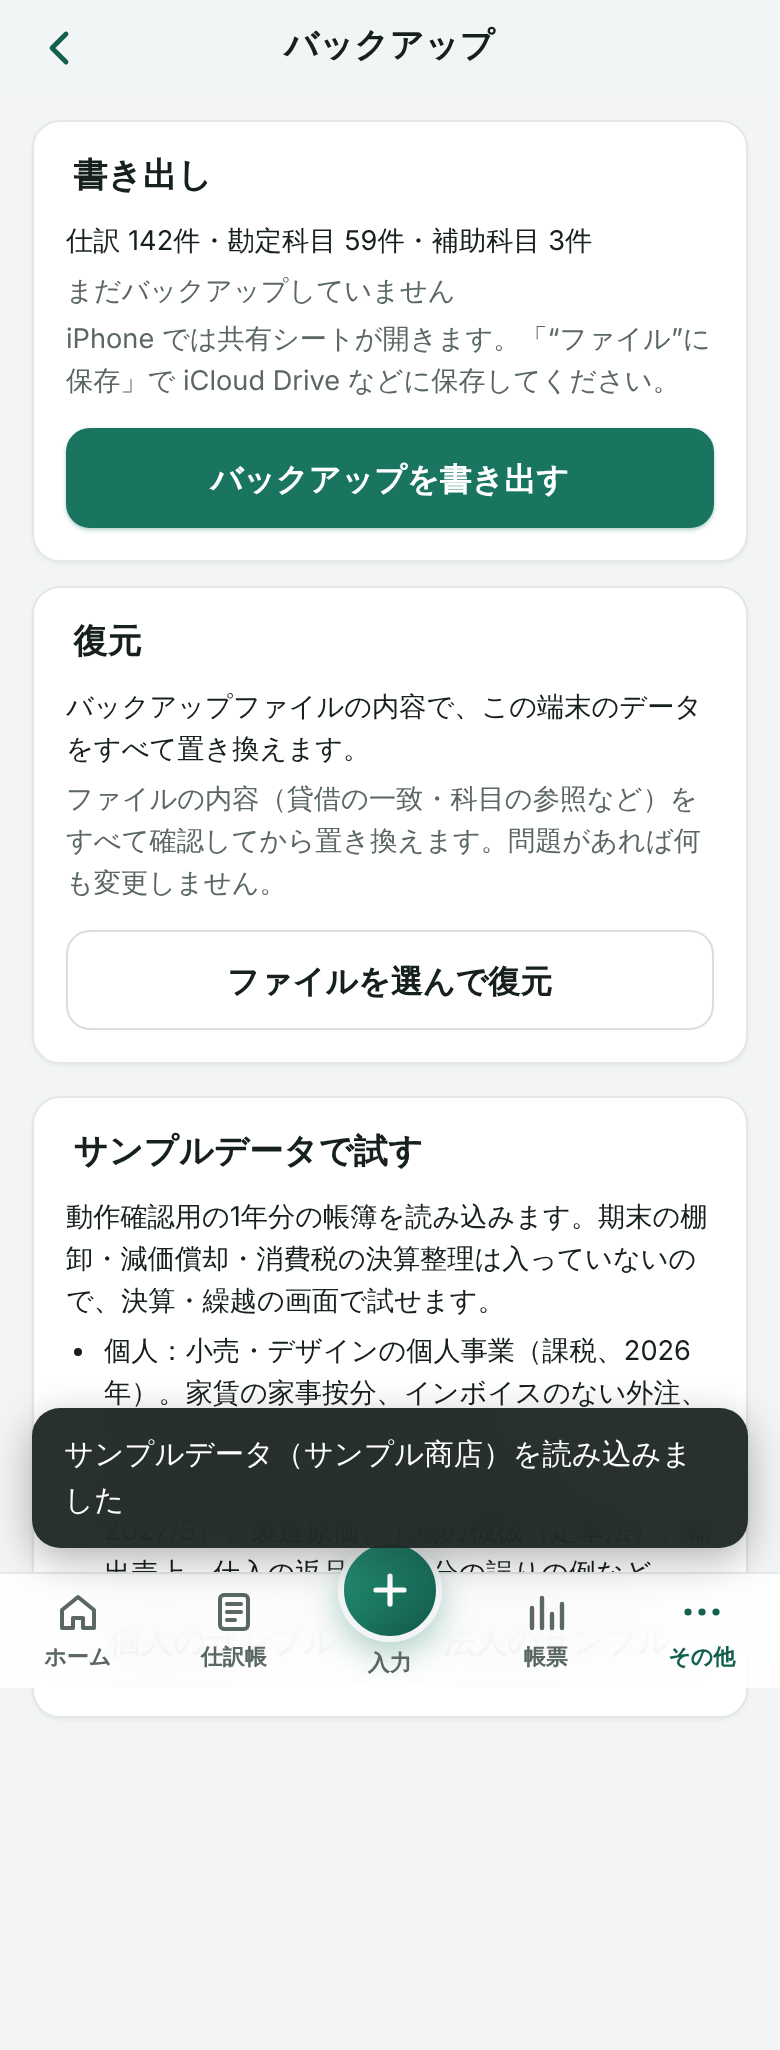
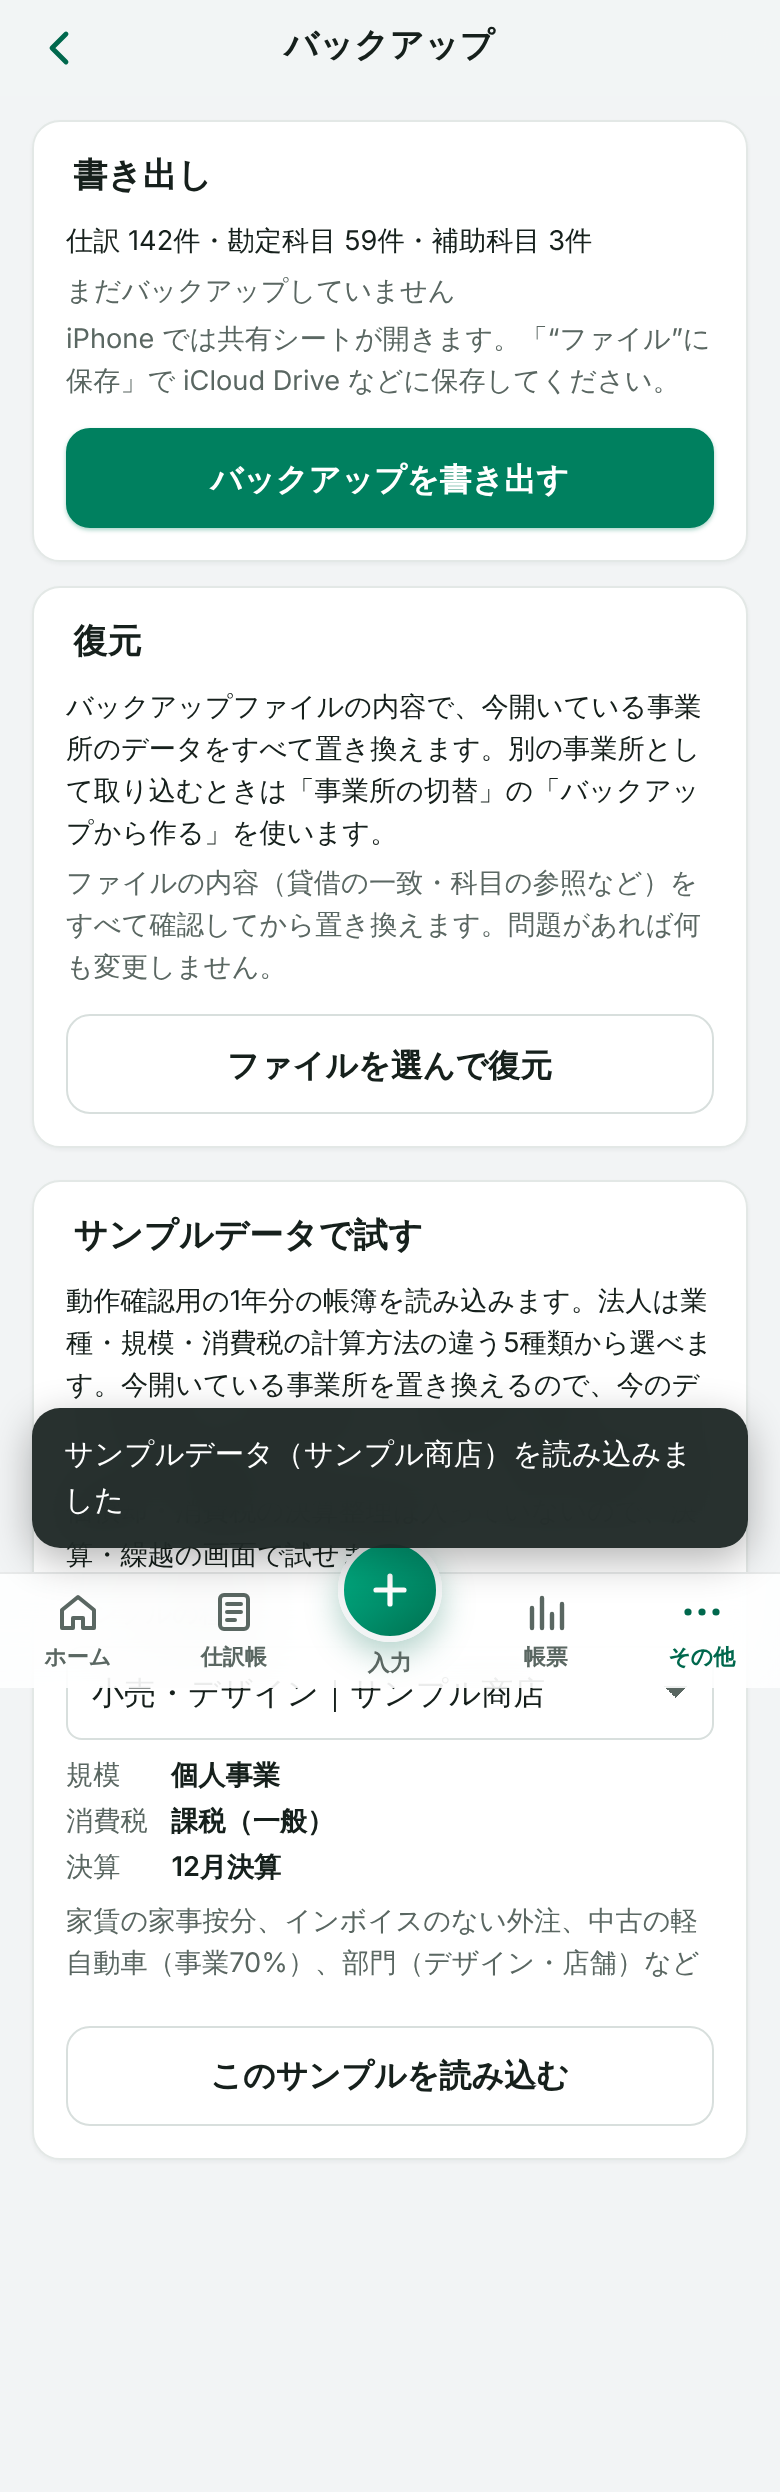
サンプルの選択欄を短く（名前は説明の欄に）、スクリーンショット
Claude-Session: https://claude.ai/code/session_01S9p1vXW3axYqQYSwEwLNuR

diff --git a/js/views/sample-load.js b/js/views/sample-load.js
@@ -14,7 +14,7 @@ export function sampleChooser({ onPick, buttonLabel }) {
     'select',
     { id: 'sample-id', onchange: () => paint() },
     [['individual', '個人'], ['corporation', '法人']].map(([type, label]) =>
-      h('optgroup', { label }, SAMPLES.filter((x) => x.entityType === type).map((x) => h('option', { value: x.id, text: `${x.industry}｜${x.name}` }))),
+      h('optgroup', { label }, SAMPLES.filter((x) => x.entityType === type).map((x) => h('option', { value: x.id, text: x.industry }))),
     ),
   );
   const detail = h('div', { class: 'sample-detail', 'aria-live': 'polite' });
@@ -22,7 +22,7 @@ export function sampleChooser({ onPick, buttonLabel }) {
     const x = SAMPLES.find((s) => s.id === select.value) || SAMPLES[0];
     put(
       detail,
-      h('dl', { class: 'sample-facts small' }, [['規模', x.size], ['消費税', x.tax], ['決算', x.fiscal]].map(([k, v]) => [h('dt', { text: k }), h('dd', { text: v })])),
+      h('dl', { class: 'sample-facts small' }, [['名前', x.name], ['規模', x.size], ['消費税', x.tax], ['決算', x.fiscal]].map(([k, v]) => [h('dt', { text: k }), h('dd', { text: v })])),
       h('p', { class: 'small muted', text: x.summary }),
     );
   }
